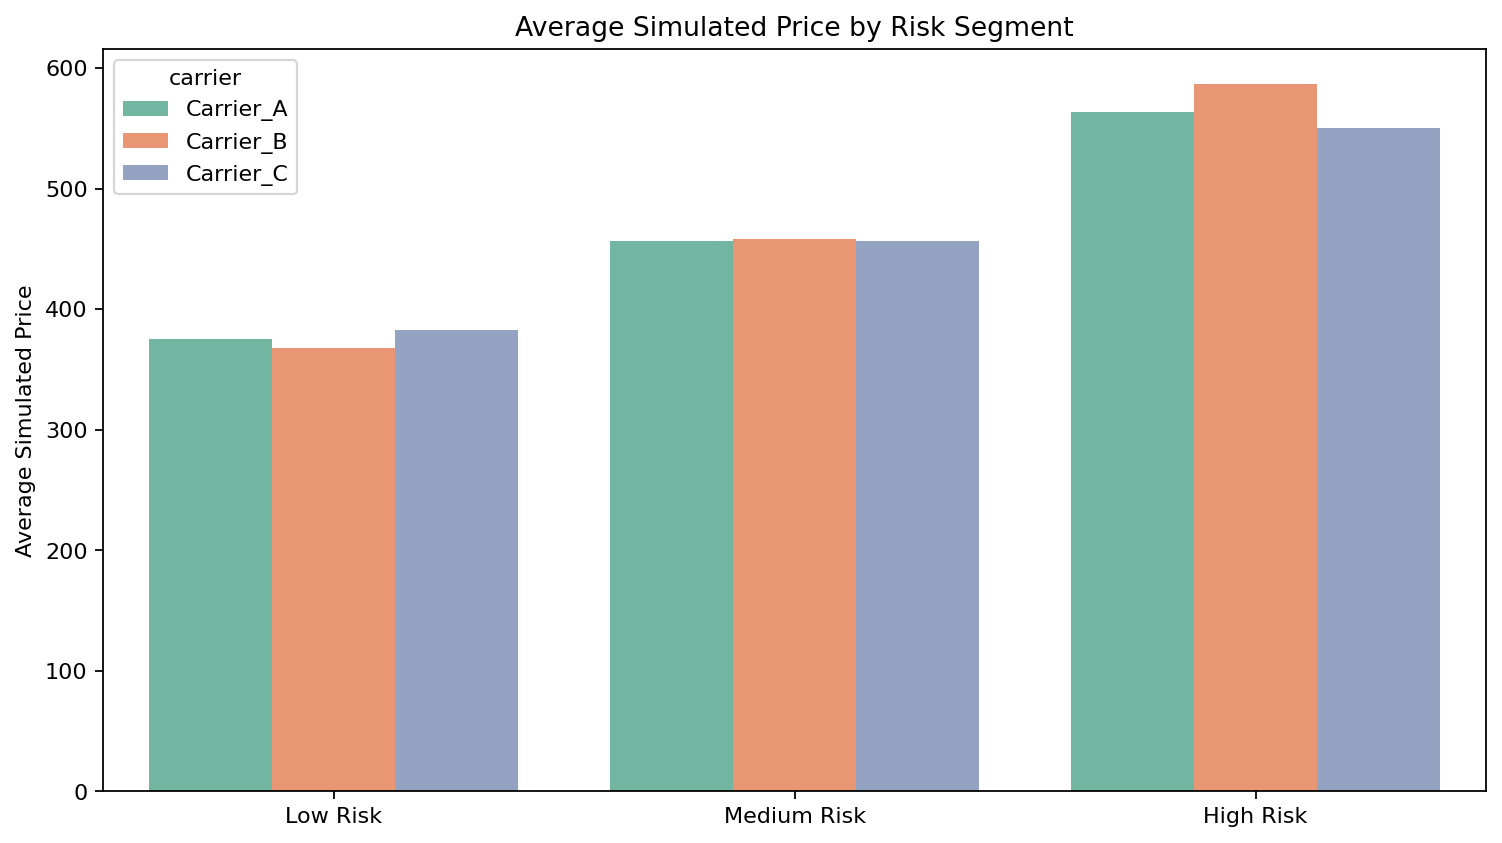
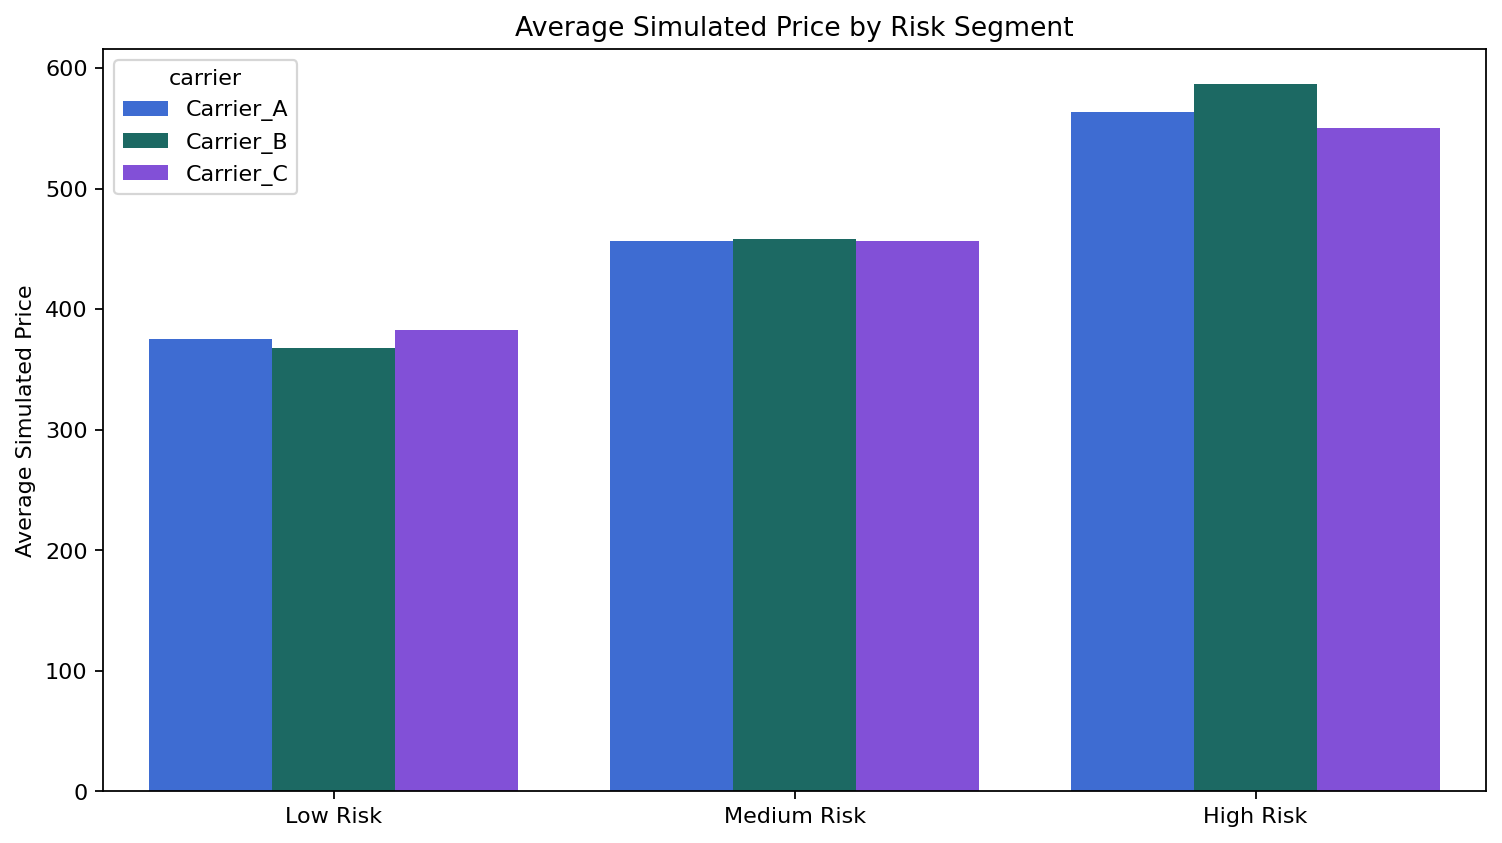
Update portfolio project visuals

diff --git a/index.html b/index.html
@@ -304,13 +304,8 @@
             <div class="project-visual">
               <img src="assets/umbrella_price_distribution.png" alt="Synthetic umbrella price distribution by fictional carrier" />
             </div>
-            <div class="project-gallery-grid">
-              <div class="project-visual">
-                <img src="assets/umbrella_segment_comparison.png" alt="Average simulated umbrella price by risk segment and carrier" />
-              </div>
-              <div class="project-visual">
-                <img src="assets/umbrella_geographic_heatmap.png" alt="Synthetic state-level umbrella price heatmap by carrier" />
-              </div>
+            <div class="project-visual">
+              <img src="assets/umbrella_segment_comparison.png" alt="Average simulated umbrella price by risk segment and carrier" />
             </div>
           </div>
         </article>